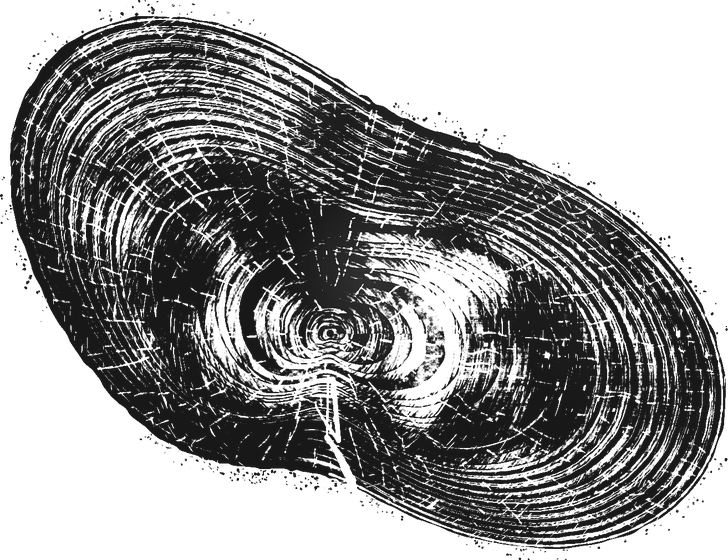
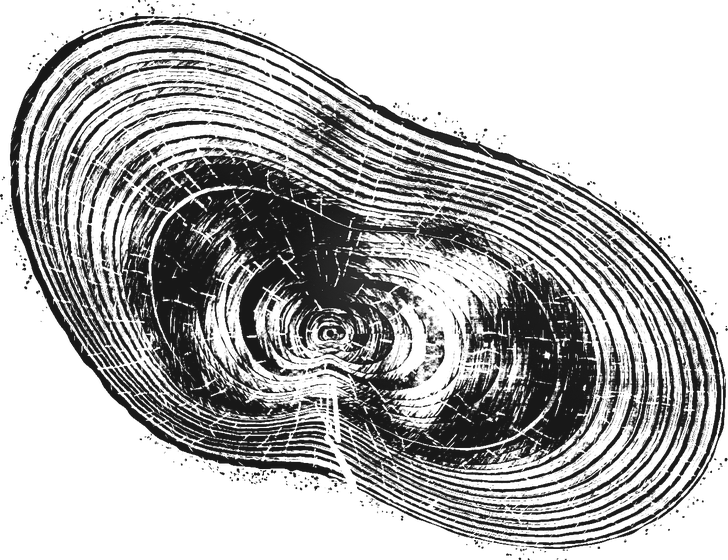
Add Douglas fir and juniper; birch off the choice; fine years as hairlines
Claude-Session: https://claude.ai/code/session_01WhGxUDQ2nhT1B8pKnZrdq5

diff --git a/src/rings/press.ts b/src/rings/press.ts
@@ -133,6 +133,7 @@ let pendingMarks: { kind: WoodMark['kind']; a: number; r: number; at: number; gr
 const TAKES: Record<Kind, { knot: number; burl: number }> = {
   oak: { knot: 1.1, burl: 2.2 }, ash: { knot: 0.9, burl: 1.6 }, cherry: { knot: 0.9, burl: 2.2 }, maple: { knot: 1, burl: 2.5 },
   birch: { knot: 1, burl: 2.3 }, pine: { knot: 1.3, burl: 1.4 }, redwood: { knot: 0.8, burl: 2.6 }, bristlecone: { knot: 0.9, burl: 2 }, olive: { knot: 1, burl: 2.6 },
+  fir: { knot: 1.3, burl: 1.5 }, juniper: { knot: 1.1, burl: 2.4 },
 };
 const angleOff = (a: number, b: number) => Math.abs(((a - b + Math.PI) % TAU + TAU) % TAU - Math.PI);
 /** How much a ring swells here (steady widths) for the knots and burls alive at it. */
@@ -397,7 +398,7 @@ const youth = (n: number) => (0.72 + 0.28 * smooth(n / 2.5)) * (1 + 0.32 * Math.
  */
 const evenUp = (a: number) => (0.8 * SPEC[kind].even * (tree.radius - radiusAt((i) => tree.inner(i), a))) / Math.max(1e-3, tree.radius);
 /** How the tree itself grows round its girth, besides the hand (see `growing.ts`), and its lean. */
-const growth = (a: number, n = tree.rings.length) => Math.pow(growthOf(tree.seed, a, n), SPEC[kind].amp) * SPEC[kind].width * alive(a, n) * leanOf(a, n);
+const growth = (a: number, n = tree.rings.length) => Math.pow(growthOf(tree.seed, a, n), SPEC[kind].amp) * SPEC[kind].width * alive(a, n) * leanOf(a, n) * fluteOf(a, n);
 /**
  * A tree is never grown evenly round: it leans, or the light comes from one side, and year after year it lays
  * more wood on that side than the other, so its heart sits off the middle, the years wide on one side and close
@@ -405,6 +406,17 @@ const growth = (a: number, n = tree.rings.length) => Math.pow(growthOf(tree.seed
  * sapling's core is near its middle), gathering over the next sixty or so, then a third to two-thirds again as wide on the one side as the other. (`lean`, below, is
  * the first game's.)
  */
+/**
+ * A juniper's trunk is fluted: it lays its wood in lobes, a few to five round it, each its own size, the bays
+ * between them deepening as it ages; so its outline is never a circle. Every other wood, 1.
+ */
+const fluteOf = (a: number, n: number) => {
+  if (kind !== 'juniper') return 1;
+  const s0 = tree.seed * 0.0193, deep = 0.6 * smooth((n - 6) / 70);
+  let e = 0;
+  for (let m = 3; m <= 6; m++) e += (0.55 + 0.9 * h1(s0 + m)) / (m - 1.5) * Math.cos(m * (a - h1(s0 * 2 + m) * TAU) + 0.3 * Math.sin(n / 60 + m));
+  return Math.exp(deep * e);
+};
 const leanOf = (a: number, n: number) => {
   const side = h1(tree.seed * 0.0417) * TAU + 0.5 * Math.sin(n / 90 + tree.seed), k = (0.12 + 0.12 * h1(tree.seed * 0.29)) * smooth((n - 12) / 60);
   return Math.exp(k * Math.cos(a - side));
@@ -442,7 +454,7 @@ const DIARY = 'diary', params = new URLSearchParams(location.search);
  * And each its own bark, and its own way of growing: the olive gnarled and lopsided, the bristlecone's
  * years very fine and, once it's old, dying back to a strip of living bark; the redwood broad and even.
  */
-type Kind = 'oak' | 'ash' | 'cherry' | 'maple' | 'birch' | 'pine' | 'redwood' | 'bristlecone' | 'olive';
+type Kind = 'oak' | 'ash' | 'cherry' | 'maple' | 'birch' | 'pine' | 'redwood' | 'bristlecone' | 'olive' | 'fir' | 'juniper';
 type Bark = { lumps: number; plate: boolean; mean: number; deep: [number, number, number]; wide: number } | 'papery';
 const FISSURED: Bark = { lumps: 140, plate: false, mean: 7, deep: [0.15, 0.8, 1.5], wide: 1 };
 const PLATES: Bark = { lumps: 70, plate: true, mean: 13, deep: [0.1, 0.25, 1], wide: 1.4 };
@@ -462,6 +474,11 @@ const SPEC: Record<Kind, {
   redwood: { family: 'conifer', bark: { lumps: 220, plate: false, mean: 4, deep: [0.3, 0.6, 1], wide: 0.7 }, barkCss: [5, 0.08, 16], amp: 0.7, width: 1.3, even: 1.2, line: 0.85, tone: 1, resin: false },
   bristlecone: { family: 'conifer', bark: { ...PLATES, lumps: 60, mean: 15 }, barkCss: [2, 0.03, 6], amp: 1.8, width: 0.45, even: 0.3, line: 0.85, tone: 1, resin: true },
   olive: { family: 'diffuse', bark: { lumps: 160, plate: false, mean: 11, deep: [0.1, 0.4, 1], wide: 1 }, barkCss: [1.5, 0.02, 4], amp: 2.2, width: 0.8, even: 0.15, line: 0.85, tone: 1, resin: false },
+  // Douglas fir: wide years when young, each a pale earlywood ending in a sharp, very dark latewood; a thick,
+  // corky bark, deeply furrowed.
+  fir: { family: 'conifer', bark: { lumps: 110, plate: false, mean: 6, deep: [0.35, 0.9, 1.6], wide: 1.2 }, barkCss: [4.5, 0.07, 15], amp: 0.9, width: 1.15, even: 1, line: 0.85, tone: 1, resin: true },
+  // Juniper: close, fine years, uneven round it, the trunk fluted into lobes; a thin bark in long shreds.
+  juniper: { family: 'conifer', bark: { lumps: 260, plate: false, mean: 3, deep: [0.2, 0.5, 0.9], wide: 0.5 }, barkCss: [1.6, 0.02, 4], amp: 1.5, width: 0.6, even: 0.25, line: 0.85, tone: 1, resin: false },
 };
 const KINDS = Object.keys(SPEC) as Kind[];
 /** (Each wood answers the same loop its own way, never said: found by drawing.) */
@@ -917,14 +934,14 @@ function drawPressMark(_v: View, _t: number, dt: number): void {
  * begins alike, a long one never longer than a share more (`ART_H` keeps only the names); until one has
  * loaded, its seed is drawn as below.
  */
-const ART_H: Record<Kind, number> = { oak: 84, ash: 112, cherry: 62, maple: 92, birch: 52, pine: 64, redwood: 72, bristlecone: 118, olive: 66 };
+const ART_H: Partial<Record<Kind, number>> = { oak: 84, ash: 112, cherry: 62, maple: 92, birch: 52, pine: 64, redwood: 72, bristlecone: 118, olive: 66 };
 const SEED_ART: Partial<Record<Kind, HTMLImageElement>> = {};
 for (const sp of Object.keys(ART_H) as Kind[]) {
   const im = new Image();
   im.onload = () => { SEED_ART[sp] = im; };
   im.src = new URL(`./seeds/${sp}.png`, import.meta.url).href;
 }
-const TILT: Record<Kind, number> = { oak: -0.25, ash: 0.45, cherry: 0.15, maple: 0, birch: 0.1, pine: 0.5, redwood: -0.2, bristlecone: 0.25, olive: -0.4 };
+const TILT: Record<Kind, number> = { oak: -0.25, ash: 0.45, cherry: 0.15, maple: 0, birch: 0.1, pine: 0.5, redwood: -0.2, bristlecone: 0.25, olive: -0.4, fir: 0.1, juniper: -0.15 };
 function drawSeedOf(sp: Kind, x: number, y: number, k = 1, z = 1, standing = false): void {
   // (Printed, from its plate: centred at (x, y), or standing on it.)
   const art = SEED_ART[sp];
@@ -993,6 +1010,25 @@ function drawSeedOf(sp: Kind, x: number, y: number, k = 1, z = 1, standing = fal
       g.moveTo(xx, yy); g.lineTo(xx + sgn * 1.8 * u, yy - 0.8 * u);
     }
     g.stroke();
+  } else if (sp === 'fir') {
+    // A Douglas fir's cone: long, its scales round-edged, and from under each a three-pointed bract.
+    g.beginPath(); g.ellipse(0, 0, 4.2 * u, 9 * u, 0, 0, TAU); g.fill();
+    g.strokeStyle = 'rgba(244,239,228,0.5)'; g.lineWidth = 0.55 * u; g.beginPath();
+    for (let i = -3; i <= 3; i++) { g.moveTo(-4 * u, i * 2.6 * u); g.quadraticCurveTo(0, i * 2.6 * u + 2.2 * u, 4 * u, i * 2.6 * u); }
+    g.stroke(); g.strokeStyle = ink(0.85); g.lineWidth = 0.5 * u; g.beginPath();
+    for (let i = -3; i <= 3; i++) for (const sgn of [-1, 1]) {
+      const yy = i * 2.6 * u + 1.2 * u, xx = sgn * 4 * Math.sqrt(Math.max(0, 1 - (yy / (9 * u)) ** 2)) * u, ex = xx + sgn * 2.4 * u;
+      g.moveTo(xx, yy); g.lineTo(ex, yy - 1.4 * u); g.moveTo(ex - sgn * 0.8 * u, yy - 0.6 * u); g.lineTo(ex + sgn * 0.6 * u, yy + 0.2 * u);
+    }
+    g.stroke();
+  } else if (sp === 'juniper') {
+    // A sprig of juniper's berries (its cones), round and dusted pale, on a scaled twig.
+    g.strokeStyle = ink(0.85); g.lineWidth = 1 * u; g.beginPath(); g.moveTo(-8 * u, 8 * u); g.quadraticCurveTo(-2 * u, 2 * u, 6 * u, -9 * u); g.stroke();
+    g.lineWidth = 0.5 * u; g.beginPath(); for (let i = 0; i < 7; i++) { const f = i / 6, x = -8 * u + 14 * u * f, y = 8 * u - 17 * u * f; g.moveTo(x, y); g.lineTo(x + 1.6 * u, y + 0.4 * u); } g.stroke();
+    for (const [bx, by, br] of [[-3, 1, 3.4], [2.6, -3.6, 3], [3.4, 2.2, 2.6]] as [number, number, number][]) {
+      g.fillStyle = ink(0.88); g.beginPath(); g.arc(bx * u, by * u, br * u, 0, TAU); g.fill();
+      g.fillStyle = 'rgba(244,239,228,0.35)'; g.beginPath(); g.ellipse((bx - br * 0.35) * u, (by - br * 0.35) * u, br * 0.35 * u, br * 0.5 * u, -0.5, 0, TAU); g.fill();
+    }
   } else if (sp === 'olive') {
     // The fruit, oval, a light on it, a narrow leaf from its stalk.
     g.beginPath(); g.moveTo(0, -4.6 * u); g.bezierCurveTo(3 * u, -8 * u, 9 * u, -11 * u, 13 * u, -11.5 * u); g.bezierCurveTo(9 * u, -8.6 * u, 3.5 * u, -5.6 * u, 0, -4.6 * u);
@@ -1028,7 +1064,8 @@ function drawSeed(v: View, t: number): void {
  * pencil, a row of dots for where it is among them. A finger swipes from one to the next, as the pages of
  * a specimen book are turned; touched, it's chosen, and draws in to its seed.
  */
-const SEEDS: Kind[] = ['oak', 'ash', 'cherry', 'maple', 'birch', 'pine', 'redwood', 'bristlecone', 'olive'];
+// (Birch is no longer offered, its print too plain to be worth the choosing; a birch already grown is kept.)
+const SEEDS: Kind[] = ['oak', 'ash', 'cherry', 'maple', 'fir', 'pine', 'redwood', 'juniper', 'bristlecone', 'olive'];
 const SLICE_ART: Partial<Record<Kind, HTMLImageElement>> = {}, sliceAsked = new Set<Kind>();
 function sliceArt(sp: Kind): HTMLImageElement | undefined {
   if (!sliceAsked.has(sp)) {
@@ -1774,7 +1811,7 @@ function vnoise(x: number, y: number): number {
  * own px), its pores (how many, how large, whether gathered in the earlywood), how strongly its real fibre
  * shows, and a mottle (the olive's figure).
  */
-type Anatomy = { early: number; late: number; share: number; edge: number; rays: number; rayW: number; pores: number; poreR: number; poreEarly: number; fibre: number; mottle: number };
+type Anatomy = { early: number; late: number; share: number; edge: number; rays: number; rayW: number; pores: number; poreR: number; poreEarly: number; fibre: number; mottle: number; sharp?: number };
 const ANATOMY: Partial<Record<Kind, Anatomy>> = {
   // Cherry: semi-diffuse, its pores a little crowded at each year's start, fine rays, a clear but soft edge.
   cherry: { early: 0.47, late: 1.0, share: 0.3, edge: 1.05, rays: 0.9, rayW: 0.42, pores: 0.11, poreR: 0.5, poreEarly: 0.6, fibre: 0.5, mottle: 0 },
@@ -1788,16 +1825,20 @@ const ANATOMY: Partial<Record<Kind, Anatomy>> = {
   bristlecone: { early: 0.32, late: 1.05, share: 0.42, edge: 1.08, rays: 0, rayW: 0, pores: 0, poreR: 0, poreEarly: 0, fibre: 0.45, mottle: 0 },
   // Olive: dense, close and irregular, its figure a dark mottle wandering through the years.
   olive: { early: 0.6, late: 0.96, share: 0.22, edge: 1.0, rays: 0.6, rayW: 0.3, pores: 0.05, poreR: 0.3, poreEarly: 0, fibre: 0.35, mottle: 0.45 },
+  // Douglas fir: a pale, soft earlywood, then all at once a dark latewood: the boldest year of them all.
+  fir: { early: 0.1, late: 1.12, share: 0.3, edge: 1.12, rays: 0, rayW: 0, pores: 0, poreR: 0, poreEarly: 0, fibre: 0.4, mottle: 0, sharp: 3.2 },
+  // Juniper: fine and close, its latewood thin and its years irregular, a soft figure through them.
+  juniper: { early: 0.3, late: 1.0, share: 0.26, edge: 1.04, rays: 0, rayW: 0, pores: 0, poreR: 0, poreEarly: 0, fibre: 0.45, mottle: 0.25 },
 };
 /**
  * How strongly each wood's rays print: oak's many and plain, a conifer's barely there.
  */
-const RAYS: Partial<Record<Kind, number>> = { oak: 0.95, ash: 0.7, cherry: 0.75, maple: 0.8, birch: 0.45, olive: 0.55, pine: 0.3, redwood: 0.25, bristlecone: 0.25 };
+const RAYS: Partial<Record<Kind, number>> = { fir: 0.3, juniper: 0.2, oak: 0.95, ash: 0.7, cherry: 0.75, maple: 0.8, birch: 0.45, olive: 0.55, pine: 0.3, redwood: 0.25, bristlecone: 0.25 };
 /**
  * How long a wood's rays run before breaking off (in the slice's own px): oak's broad rays long, the others'
  * short flecks a few years tall, staggered; and how much of each ray's way is broken.
  */
-const RAY_RUN: Partial<Record<Kind, [number, number]>> = { oak: [26, 0.25], ash: [12, 0.4], cherry: [5, 0.55], maple: [5, 0.5], birch: [4, 0.6], olive: [5, 0.55], pine: [7, 0.6], redwood: [7, 0.6], bristlecone: [7, 0.6] };
+const RAY_RUN: Partial<Record<Kind, [number, number]>> = { fir: [7, 0.6], juniper: [5, 0.65], oak: [26, 0.25], ash: [12, 0.4], cherry: [5, 0.55], maple: [5, 0.5], birch: [4, 0.6], olive: [5, 0.55], pine: [7, 0.6], redwood: [7, 0.6], bristlecone: [7, 0.6] };
 /**
  * The rays at a point (tree angle `a`, `rho` px out at the slice's own size), 0 to 1. Real rays keep about the
  * same distance apart all the way out: a few begin at the heart, and as the wood widens new ones begin between
@@ -1894,9 +1935,11 @@ function printYears(v: View, oak: Years | null): void {
     // The year: earlywood, a little deeper as it goes, then darkening into the latewood, ending sharp.
     const share = conifer ? Math.min(0.85, A.share * (0.6 + 0.8 * calmOf(i))) : A.share;
     const t = Math.max(0, Math.min(1, (across - (1 - share)) / share));
-    let ink = A.early * (0.85 + 0.3 * across) + (A.late - A.early) * Math.pow(t, 1.4);
+    let ink = A.early * (0.85 + 0.3 * across) + (A.late - A.early) * Math.pow(t, A.sharp ?? 1.4);
     // (Its edge: a line a pixel or so wide at the slice's own size, darker than the latewood.)
-    if (!heart && width > 0) ink = Math.max(ink, A.edge * smooth((across - (1 - (1.3 * U) / width)) / Math.max(1e-3, (0.8 * U) / width)));
+    // (Never more than a quarter of a fine year: its line is in proportion to it.)
+    const eW = Math.min(1.3 * U, 0.25 * width);
+    if (!heart && width > 0) ink = Math.max(ink, A.edge * smooth((across - (1 - eW / width)) / Math.max(1e-3, Math.min(0.8 * U, 0.15 * width) / width)));
     // The real fibre, streaking along the year.
     if (fib && A.fibre) ink *= 1 + A.fibre * 0.45 * (tile(fib, a * rho * 0.5, rho * 0.5) - 0.5) * 2;
     // (And the wood's own fine grain, finer than the scan holds: long thin streaks along the year, in the wood's
@@ -1918,7 +1961,7 @@ function printYears(v: View, oak: Years | null): void {
   // (A fine year's line on its edge, drawn smooth across the pixels, a little heavier or lighter than the
   // next, and its weight wandering with the press.)
   const half = new Float32Array(n);
-  for (let j = 0; j < n; j++) half[j] = 0.3 * gapOf[j] * (0.85 + 0.3 * h1(j * 3.7 + 1.1));
+  for (let j = 0; j < n; j++) half[j] = 0.19 * gapOf[j] * (0.85 + 0.3 * h1(j * 3.7 + 1.1));
   const lineAt = (j: number, dist: number) => (j < 0 || !edge[j] ? 0 : Math.max(0, Math.min(1, (half[j] + 0.5 * px - dist) / px)) * thin[j]);
   for (let y = 0; y < h; y++) {
     const dy = v.cy - (y + y0);
@@ -1956,7 +1999,7 @@ function printYears(v: View, oak: Years | null): void {
       } else ink = drawnInk(i, a, r, across, heart, rout - rin, dx, dy) * tone(i);
       if (!heart && thin[i] > 0) {
         // (As dark as the wide years: lines as wide as some three-fifths of the space they stand for.)
-        ink *= 1 - 0.5 * thin[i];
+        ink *= 1 - 0.65 * thin[i];
         const jo = edgeOut[i], ji = edgeIn[i];
         const cov = Math.max(jo < 0 ? 0 : lineAt(jo, at(jo, b, f) - r), ji < 0 ? 0 : lineAt(ji, r - at(ji, b, f))) * (0.75 + 0.35 * vnoise(dx * 0.11 + i, dy * 0.11));
         if (cov > 0) ink = Math.max(ink, 0.95 * cov);
@@ -2617,7 +2660,7 @@ function blow(h: NonNullable<typeof breezeHand>, x: number, y: number): void {
   // (Something blown from the crown it passed through, as the season has it: never from the bare ground.)
   const season = seasonNow(), near = worldOf().trees.find((o) => o.n >= 1 && Math.hypot(o.wx - wx, o.wy - wy) < o.wr * 1.05);
   if (!near) return;
-  const ever = ['pine', 'redwood', 'bristlecone', 'olive'].includes(near.sp);
+  const ever = ['pine', 'redwood', 'bristlecone', 'olive', 'fir', 'juniper'].includes(near.sp);
   const col: [number, number, number] | null = season === 'winter' ? [253, 252, 249] : season === 'spring' ? (near.sp === 'cherry' ? [236, 196, 204] : [150, 176, 110])
     : season === 'autumn' ? (ever ? [128, 140, 100] : pigment(near.sp, 'autumn') ?? [176, 112, 60]) : [128, 158, 96];
   if (col && lifted.length < 50 && h1(t * 13.1) < 0.7) {
@@ -2815,7 +2858,7 @@ function drawLife(cam: Cam): void {
   if (season === 'autumn' || season === 'spring') {
     for (const tr of L) {
       const col = season === 'spring' ? (tr.sp === 'cherry' ? [236, 196, 204] : null) : pigment(tr.sp, 'autumn');
-      if (!col || tr.n < 30 || ['pine', 'redwood', 'bristlecone', 'olive'].includes(tr.sp)) continue;
+      if (!col || tr.n < 30 || ['pine', 'redwood', 'bristlecone', 'olive', 'fir', 'juniper'].includes(tr.sp)) continue;
       for (let q = 0; q < 3; q++) {
         const per = 6 + 3 * h1(tr.k + q), p = ((t / per + h1(tr.k * 1.3 + q * 0.7)) % 1), a0 = h1(tr.k + q * 2.9) * TAU, r0 = tr.r * 0.6 * Math.sqrt(h1(q + tr.k));
         const x = tr.x + Math.cos(a0) * r0 + p * tr.r * 1.4 * wind + Math.sin(p * 9 + q) * 2 * U, y = tr.y + Math.sin(a0) * r0 + p * tr.r * 0.6;

diff --git a/src/rings/grove.ts b/src/rings/grove.ts
@@ -28,9 +28,11 @@ const HABIT: Record<string, Habit> = {
   pine: { clumps: 0, spread: 0, rough: 0.08, tip: 0.16, size: 0.62, tall: 1.4, marks: 0.5, squash: 1 },
   redwood: { clumps: 0, spread: 0, rough: 0.05, tip: 0.1, size: 0.48, tall: 2.1, marks: 0.8, squash: 1 },
   bristlecone: { clumps: 0, spread: 0, rough: 0.14, tip: 0.24, size: 0.52, tall: 0.45, marks: 0.4, squash: 1 },
+  fir: { clumps: 0, spread: 0, rough: 0.07, tip: 0.13, size: 0.58, tall: 1.8, marks: 0.6, squash: 1 },
+  juniper: { clumps: 0, spread: 0, rough: 0.2, tip: 0.18, size: 0.5, tall: 0.6, marks: 0.5, squash: 0.85 },
 };
 const habit = (sp: string) => HABIT[sp] ?? HABIT.oak;
-const CONIFER = new Set(['pine', 'redwood', 'bristlecone']);
+const CONIFER = new Set(['pine', 'redwood', 'bristlecone', 'fir', 'juniper']);
 /** How big a crown is for its kind and its days (a year's, full size), as a share of a full oak's. */
 export const crownSize = (sp: string, days: number) => habit(sp).size * (0.3 + 0.7 * Math.sqrt(Math.min(1.2, days / 365)));
 
@@ -268,12 +270,12 @@ export function drawHill(g: CanvasRenderingContext2D, w: number, h: number, U: n
  */
 export type Season = 'spring' | 'summer' | 'autumn' | 'winter';
 export const seasonOf = (d = new Date()): Season => (['winter', 'winter', 'spring', 'spring', 'spring', 'summer', 'summer', 'summer', 'autumn', 'autumn', 'autumn', 'winter'] as Season[])[d.getMonth()];
-const EVER = new Set(['pine', 'redwood', 'bristlecone', 'olive']);
+const EVER = new Set(['pine', 'redwood', 'bristlecone', 'olive', 'fir', 'juniper']);
 const AUTUMN: Record<string, [number, number, number]> = {
   oak: [158, 104, 58], ash: [196, 166, 82], maple: [192, 86, 52], cherry: [172, 78, 62], birch: [208, 174, 78],
 };
 export function pigment(sp: string, season: Season): [number, number, number] | null {
-  if (EVER.has(sp)) return sp === 'olive' ? [138, 146, 112] : sp === 'redwood' ? [92, 112, 84] : [96, 122, 90];
+  if (EVER.has(sp)) return sp === 'olive' ? [138, 146, 112] : sp === 'redwood' ? [92, 112, 84] : sp === 'fir' ? [78, 106, 80] : sp === 'juniper' ? [112, 132, 116] : [96, 122, 90];
   if (season === 'winter') return null;
   if (season === 'autumn') return AUTUMN[sp] ?? AUTUMN.oak;
   return season === 'spring' ? [154, 178, 112] : [104, 136, 86];

diff --git a/src/rings/wood.ts b/src/rings/wood.ts
@@ -87,7 +87,7 @@ export function loadWood(then: () => void): void {
   // their nearest kin's: a red pine's, a cherry's.)
   const fibre = (url: string, ...as: string[]) => pixels(url).then((l) => { for (const k of as) wood.fibre[k] = l; then(); }).catch(() => {});
   fibre(URLS.cherry, 'cherry', 'olive'); fibre(URLS.maple, 'maple'); fibre(URLS.birch, 'birch'); fibre(URLS.redwood, 'redwood');
-  pixels(URLS.pine).then((l) => { wood.pine = l; wood.fibre.pine = l; wood.fibre.bristlecone = l; then(); }).catch(() => {});
+  pixels(URLS.pine).then((l) => { wood.pine = l; wood.fibre.pine = l; wood.fibre.bristlecone = l; wood.fibre.fir = l; wood.fibre.juniper = l; then(); }).catch(() => {});
   // (The ink's speckle, from real tree-ring prints; Munch's sea where asked, `?ink=munch`.)
   pixels(location.search.includes('ink=munch') ? URLS.sea : URLS.speckle).then((l) => { wood.sea = l; then(); }).catch(() => {});
   pixels(URLS.field).then((l) => { wood.field = l; then(); }).catch(() => {});

diff --git a/RINGS-HISTORY.md b/RINGS-HISTORY.md
@@ -174,3 +174,5 @@ Still to come (`trees.ts`): a redwood with fires, a bristlecone with drought, a 
 **Sharp up close** (since October 17). Looked into, the print was soft: pressed at two device pixels to a CSS px and shown on a phone's three, so stretched by half; the drawn woods' fibre, from an old scan, magnified into diagonal smears; the rays and the edge's specks sized with the wood, so thick. Now the print is pressed at the screen's own resolution (`QUALITY`, the strips smaller so a frame's share stays small); the scan's fibre is used lightly, under a finer grain of the wood's own that only shows as it's looked into, so closer finds more, never a blur; the rays are finer, their edges ragged; the specks grow less, and aren't round.
 
 **Steady when looked into; rays as they run** (since October 17). Pinching counted as drawing, so the slice's magnifier came back under the fingers and, a moment after they lifted, eased away again: the heart's years swelling outward, the slice seeming to zoom of itself. Now only drawing brings the magnifier back; while looking closer it holds as it is. And the rays were ruled straight from heart to bark; now each bends a little and jogs as the years about it swell and pinch, and breaks off: oak's in long runs, the other woods' in short flecks a few years tall, staggered (`RAY_RUN`).
+
+**Douglas fir and juniper; birch let go; fine years as hairlines** (since October 17). Two woods, each a look the others hadn't: Douglas fir, the boldest year of all, a pale earlywood closed all at once by a dark latewood (`sharp`), a thick furrowed bark; and juniper, close fine years and a fluted trunk, its lobes and bays deepening with age (`fluteOf`), a thin shredding bark. Birch is no longer offered (its print too plain to be worth the choosing); a birch already grown is kept. And a slice's fine years, too narrow to print apart, printed near black; now they're hairlines, the line on each year's edge never more than a quarter of it, so an old slice reads as fine grey lines.

diff --git a/README.md b/README.md
@@ -382,7 +382,7 @@ Locally, run `npm run dev` and open `/volcano.html`. The simulation (`src/volcan
 * **Knots and burls.** Hold the brush still a moment on the loop and a branch begins there: a knot, the branch cut across, its own few rings with the trunk's swept round it, grown over once left. Scribble back and forth and the wood burls: the rings swell and swirl round dark bud specks. Both are made of the rings themselves, pulled about where they lie (`markSwell`, `warpMarks`).
 * **The wood answers.** Each kind takes the same gesture its own way (`TEMPER`, `SMOOTH`); the tree has its own good and lean years besides the hand (`climate`), a seedling's first years narrow (`youth`), and a tree on damp ground by the stream grows a little wider.
 
-**Choosing and planting.** On a bare sheet, swipe through nine woods (oak, ash, cherry, maple, birch, pine, redwood, bristlecone, olive), each shown as a slice of its own; touch one to plant it. A year from its first ring the tree is finished and stands in the grove, and the sheet offers the next seed.
+**Choosing and planting.** On a bare sheet, swipe through ten woods (oak, ash, cherry, maple, Douglas fir, pine, redwood, juniper, bristlecone, olive; a birch already grown is kept), each shown as a slice of its own; touch one to plant it. A year from its first ring the tree is finished and stands in the grove, and the sheet offers the next seed.
 
 **The opening.** Each time it's opened, the slice is pressed at its own large scale, filling the sheet, and draws back to the day's view, a print of the thing itself, never a magnified copy. Its name and a blind stamp are pencilled under it while it's seen whole.
 
